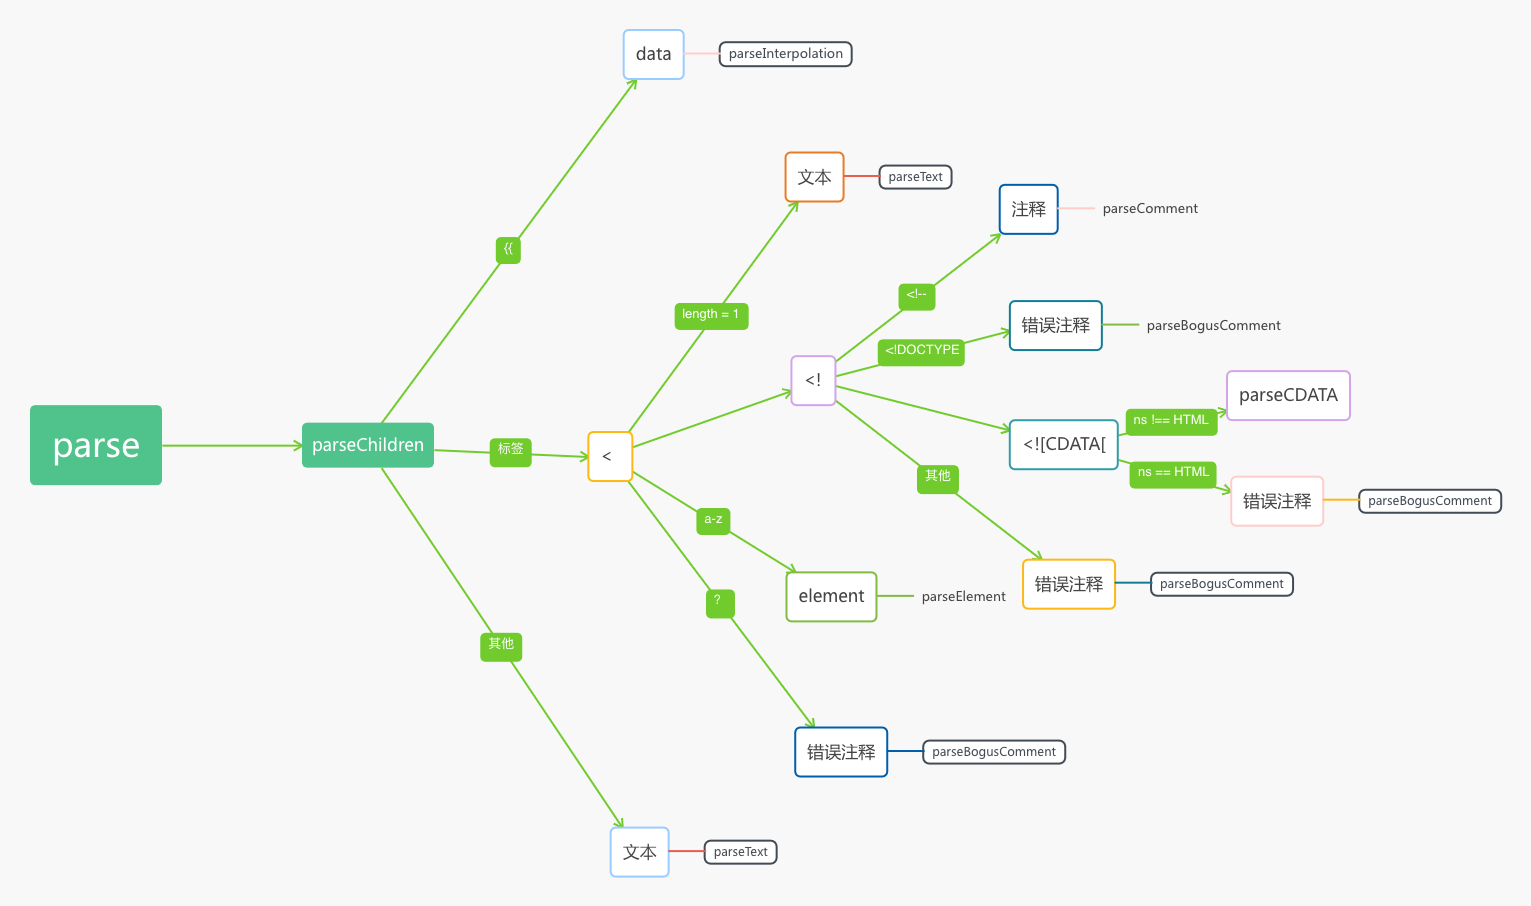
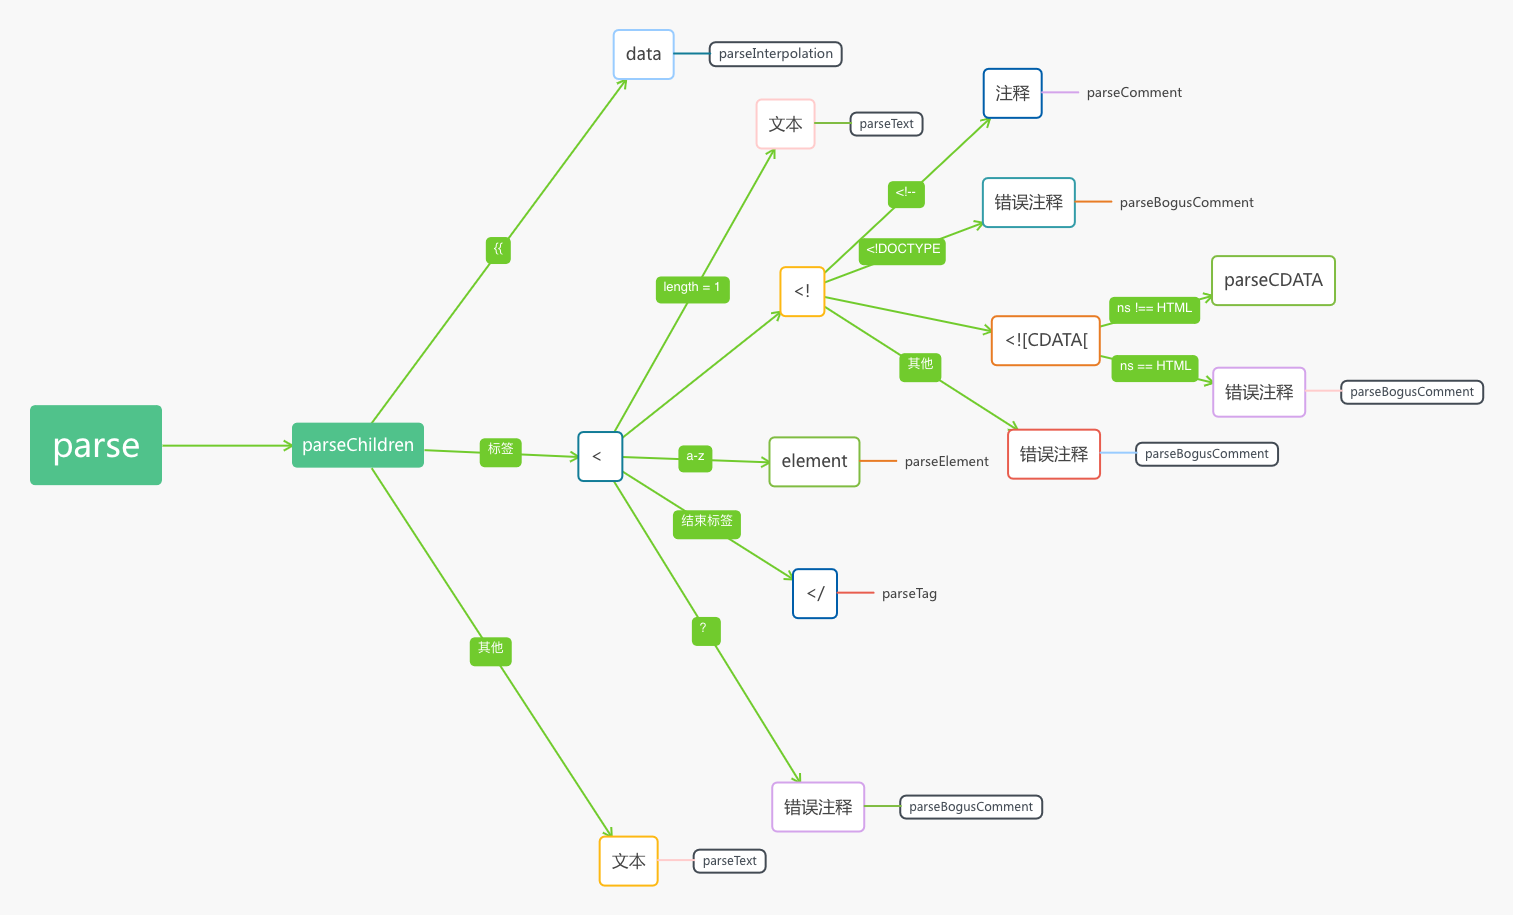
feat: parse

diff --git a/packages/vue/examples/todomvc-composition.html b/packages/vue/examples/todomvc-composition.html
@@ -1,5 +1,5 @@
 <script src="../dist/vue.global.js"></script>
-<link rel="stylesheet" href="https://unpkg.com/todomvc-app-css/index.css">
+<!-- <link rel="stylesheet" href="https://unpkg.com/todomvc-app-css/index.css"> -->
 
 <div id="app">
   <ul :class="state.ulClass" class="list" v-if="state.isShow">

diff --git a/packages/reactivity/study-reactive.md b/packages/reactivity/study-reactive.md
@@ -28,8 +28,8 @@ export function reactive(target: object) {
 }
 ```
 前面两个判断很简单，只要是被劫持或只读直接返回。     
-第二步，分两个逻辑分支，分别是readonly和普通响应式。它们都使用createReactiveObject方法实现，     
-区别是保存的Map对象不一样。    
+第二步，分两个逻辑，分别是 readonly 和 普通响应式。     
+它们都使用createReactiveObject方法实现，只是Map对象不一样。    
 
 ```
 function createReactiveObject(
@@ -73,9 +73,9 @@ function createReactiveObject(
   return observed
 }
 ```
-createReactiveObject方法前面照旧也是琐碎判断，如果是响应式、或已劫持、或是不能劫持类型，直接返回。       
+createReactiveObject方法前面也是琐碎判断，如果是响应式、已劫持或是不能劫持类型，直接返回。       
 然后是用ES Proxy劫持数据，    
-再把源数据和劫持后数据保存到两个Map里，
+再把源数据和劫持后数据保存到两个Map里，   
 最后在targetMap为该响应式数据创建空间，收集对应的监听者。
 
 上面述说的大概逻辑。现在对每一个在详细描述。
@@ -91,10 +91,11 @@ createReactiveObject方法前面照旧也是琐碎判断，如果是响应式、
 
 ### reactive如何返回不为Ref类型的对象
 在上面概括中，reactive返回Proxy劫持的值，    
-而这里Proxy有两种handle的情况，为了易懂，先看baseHandlers。   
-
+而Proxy有两种handle，我们只分析baseHandlers。   
+
+
 ```
-//baseHandlers 其实是 baseHandlers.ts 文件的 mutableHandlers 对象
+// baseHandlers 其实是 baseHandlers.ts 文件的 mutableHandlers 对象   
 export const mutableHandlers: ProxyHandler<object> = {
   get: createGetter(false),
   set,
@@ -117,3 +118,6 @@ function createGetter(isReadonly: boolean, unwrap: boolean = true) {
   }
 }
 ```
+
+**proxy**的**get**方法触发时，   
+判断如果是**Ref**类型，就返回**Ref**的**value**属性，所以值不可能是**Ref**类型

diff --git a/packages/compiler-dom/README.md b/packages/compiler-dom/README.md
@@ -1,9 +1,10 @@
 # @vue/compiler-dom
 
 ## 编辑器
-其作用是把template编译成render函数。
+其作用是把template编译成render函数。    
+其过程不是一戳儿就的，需要经过解析->优化->编辑。这个步骤
 
-## 解析
+## 入口
 
 它的入口是***compiler-dom/src/index.ts***
 
@@ -97,9 +98,9 @@ export function baseCompile(
 
 1. 解析模板字符串生成 AST
 2. 优化语法树
-3. 生成代码
+3. 编译代码
 
-### parse
+## 解析parse
 
 编辑过程首先对模版进行解析，生产AST，它是一个抽象语法树，是对源代码的抽象语法结构的树状表现形象。
 
@@ -271,8 +272,16 @@ function advanceBy(context: ParserContext, numberOfCharacters: number): void {
 ```
 在while中解析，并通过多个判断执行对应parse方法，advanceBy方法推动解析。
 
-<img src="./advance.jpg" width="100%"/>
+<img src="./advance.jpg" width="100%" />
 
 每种情况对应的parse分支
 
 <img src="./parse.png" width="100%" />
+
+* parseInterpolation 解析状态
+* parseText 解析文本
+* parseComment 解析用户编写的注释
+* parseBogusComment 解析语法不合配的注释
+* parseCDATA 解析xml
+* parseTag 解析标签
+* parseElement 解析dom 

diff --git a/observer.md b/observer.md
@@ -14,7 +14,7 @@
 
 这时候问题来了😁，分为如下步骤
 
-1. 如何创建响应式数据或依赖数据
+1. 如何创建响应式数据和依赖数据
 2. 响应式数据如何与依赖数据建立关系
 3. 响应式数据的状态改变时，如何通知依赖数据
 4. 依赖数据收到通知如何做更新
